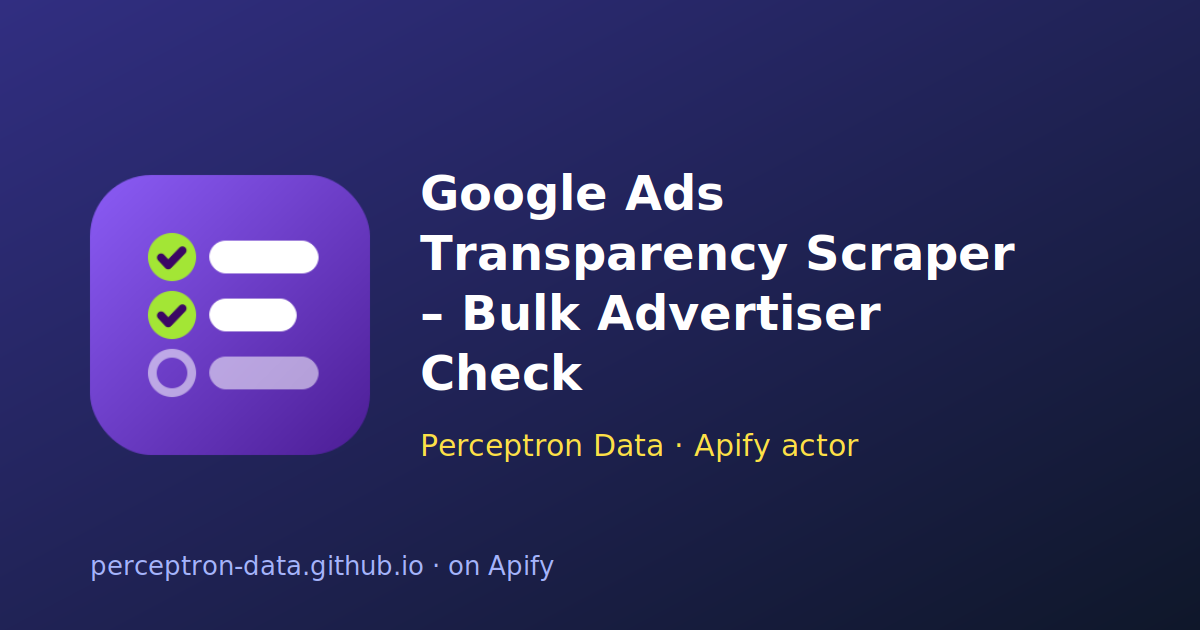
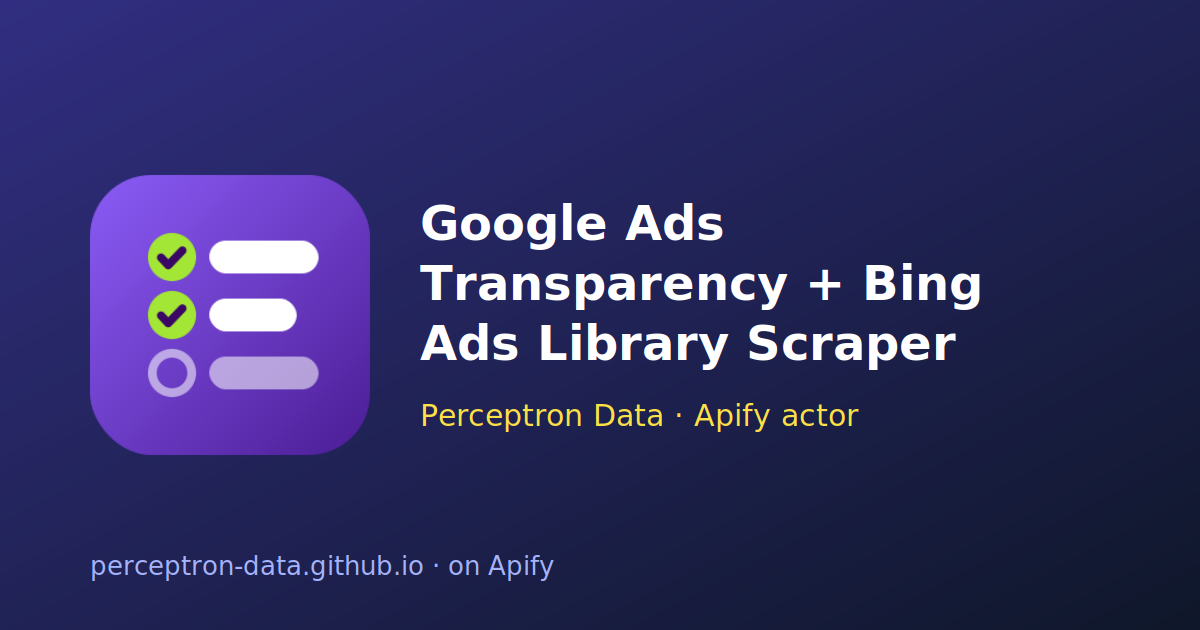
Google Ads actor: add Microsoft Ad Library (Bing)
Actor page, OG image and description now cover both ad libraries.

Changed region(s): [[0.3392, 0.2714, 0.8633, 0.7238]]

diff --git a/content.py b/content.py
@@ -46,26 +46,26 @@ ACTORS = {
         "unit": {"en": "ads", "de": "Anzeigen"},
         "example": {"mode": "companies", "domains": ["check24.de", "otto.de", "frischpack.de"], "region_breakdown": ["DE", "AT", "CH"]},
         "en": {
-            "title": "Google Ads Transparency Scraper – Bulk Advertiser Check",
-            "h1": "Check which companies advertise on Google — in bulk",
-            "desc": "Check a list of companies against the Google Ads Transparency Center: advertising yes or no, number of ads, who runs them, last shown, formats and countries.",
-            "intro": "The Google Ads Transparency Center lists every ad Google serves. This actor turns it into a lead qualification tool: give it 10 or 10,000 company domains or names and get one row per company — is it advertising, roughly how many ads, which advertiser actually runs them, and when they were last shown.",
-            "features": ["Advertising yes/no and ad count per company", "Own advertiser vs. agencies and resellers", "Ads per country, e.g. Germany, Austria, Switzerland", "Export every ad with dates, format and preview", "Monitoring mode: only ads first shown since the last run"],
-            "uses": ["Qualify leads for an ads agency or SaaS", "Watch competitors launch new campaigns", "Map how actively a sector advertises", "See who else runs ads linking to your domain"],
-            "faq": [("Where does the data come from?", "From Google's public Ads Transparency Center, which Google publishes under the EU Digital Services Act. No login is involved."),
-                    ("Can I see ad spend?", "Google publishes no spend. The number of ads and how recently they ran are the best public signal."),
-                    ("Does it need a proxy?", "No. It was measured from Apify's data centres without a proxy.")],
+            "title": "Google Ads Transparency + Bing Ads Library Scraper",
+            "h1": "Check which companies advertise on Google and Bing — in bulk",
+            "desc": "Check company lists against Google Ads Transparency and the Microsoft Ad Library: who advertises, how many ads, which accounts, active in the last 30 days.",
+            "intro": "Google and Microsoft both publish the ads they serve. This actor checks 10 or 10,000 company domains or names against both libraries in one run and returns one row per company — advertising on Google, on Bing, roughly how many ads, which advertiser accounts run them and whether they ran recently. Every Microsoft account is checked against the landing pages of its own ads, so a name lookalike never counts.",
+            "features": ["Google and Bing in one row per company", "Every Bing account proven by its own ads' landing pages", "Own advertiser vs. agencies and resellers", "Ads per country, e.g. Germany, Austria, Switzerland", "Export ads — Bing with text, landing page, reach and targeting", "Monitoring mode: only new ads, on both platforms"],
+            "uses": ["Qualify leads for an ads agency or SaaS", "Find companies on Google Ads but not on Bing", "Watch competitors launch new campaigns", "See who else runs ads linking to your domain"],
+            "faq": [("Where does the data come from?", "From Google's Ads Transparency Center and Microsoft's Ad Library, which both companies publish under the EU Digital Services Act. No login is involved."),
+                    ("Can I see ad spend?", "Neither publishes spend. Google gives the number of ads, Microsoft also a reach range per ad — together with how recently ads ran, the best public signal."),
+                    ("Which countries does Bing cover?", "Microsoft publishes ads shown in the EU and EEA. Google covers every country.")],
         },
         "de": {
-            "title": "Google Ads Transparenz: Wer wirbt? Firmenlisten prüfen",
-            "h1": "Prüfen, welche Firmen Google-Werbung schalten — für ganze Listen",
-            "desc": "Firmenlisten gegen das Google Ads Transparency Center prüfen: wirbt die Firma, wie viele Anzeigen, wer schaltet sie, wann zuletzt, welche Formate und Länder.",
-            "intro": "Im Google Ads Transparency Center veröffentlicht Google jede ausgespielte Anzeige. Dieser Actor macht daraus ein Werkzeug zur Lead-Qualifizierung: Er prüft 10 oder 10.000 Domains oder Firmennamen und liefert je Firma, ob sie wirbt, wie viele Anzeigen ungefähr, welcher Werbetreibende sie schaltet und wann sie zuletzt liefen.",
-            "features": ["Wirbt ja/nein und Anzahl Anzeigen je Firma", "Eigene Werbung vs. Agenturen und Händler", "Anzeigen je Land, z. B. Deutschland, Österreich, Schweiz", "Alle Anzeigen mit Datum, Format und Vorschau exportieren", "Überwachung: nur Anzeigen, die seit dem letzten Lauf neu sind"],
-            "uses": ["Leads für Agenturen und SaaS-Anbieter qualifizieren", "Neue Kampagnen von Wettbewerbern beobachten", "Werbeaktivität einer Branche erfassen", "Sehen, wer sonst mit Ihrer Domain wirbt"],
-            "faq": [("Woher stammen die Daten?", "Aus Googles öffentlichem Ads Transparency Center, das Google nach dem Digital Services Act veröffentlicht. Ohne Login."),
-                    ("Sieht man die Werbeausgaben?", "Google veröffentlicht keine Ausgaben. Anzahl und Aktualität der Anzeigen sind das beste öffentliche Signal."),
-                    ("Braucht man einen Proxy?", "Nein, gemessen von Apifys Rechenzentren ohne Proxy.")],
+            "title": "Google- und Bing-Werbung prüfen: Wer wirbt? Firmenlisten",
+            "h1": "Prüfen, welche Firmen bei Google und Bing werben — für ganze Listen",
+            "desc": "Firmenlisten gegen Google Ads Transparency und die Microsoft Ad Library prüfen: wer wirbt, wie viele Anzeigen, welche Konten, aktiv in den letzten 30 Tagen.",
+            "intro": "Google und Microsoft veröffentlichen die Anzeigen, die sie ausspielen. Dieser Actor prüft 10 oder 10.000 Domains oder Firmennamen in einem Lauf gegen beide Bibliotheken und liefert je Firma eine Zeile: wirbt sie bei Google, bei Bing, mit wie vielen Anzeigen ungefähr, über welche Konten und ob die Anzeigen zuletzt liefen. Jedes Microsoft-Konto wird an den Zielseiten seiner eigenen Anzeigen geprüft — Namensvettern zählen nie mit.",
+            "features": ["Google und Bing in einer Zeile je Firma", "Jedes Bing-Konto über die Zielseiten seiner Anzeigen belegt", "Eigene Werbung vs. Agenturen und Händler", "Anzeigen je Land, z. B. Deutschland, Österreich, Schweiz", "Anzeigen exportieren — bei Bing mit Text, Zielseite, Reichweite und Targeting", "Überwachung: nur neue Anzeigen, auf beiden Plattformen"],
+            "uses": ["Leads für Agenturen und SaaS-Anbieter qualifizieren", "Firmen finden, die bei Google werben, aber nicht bei Bing", "Neue Kampagnen von Wettbewerbern beobachten", "Sehen, wer sonst mit Ihrer Domain wirbt"],
+            "faq": [("Woher stammen die Daten?", "Aus Googles Ads Transparency Center und Microsofts Ad Library, die beide nach dem Digital Services Act veröffentlicht werden. Ohne Login."),
+                    ("Sieht man die Werbeausgaben?", "Keiner von beiden veröffentlicht Ausgaben. Google nennt die Anzahl der Anzeigen, Microsoft zusätzlich eine Reichweitenspanne je Anzeige — zusammen mit der Aktualität das beste öffentliche Signal."),
+                    ("Welche Länder deckt Bing ab?", "Microsoft veröffentlicht Anzeigen, die in der EU und im EWR liefen. Google deckt alle Länder ab.")],
         },
     },
     "imprint-impressum-website-contact-scraper": {
